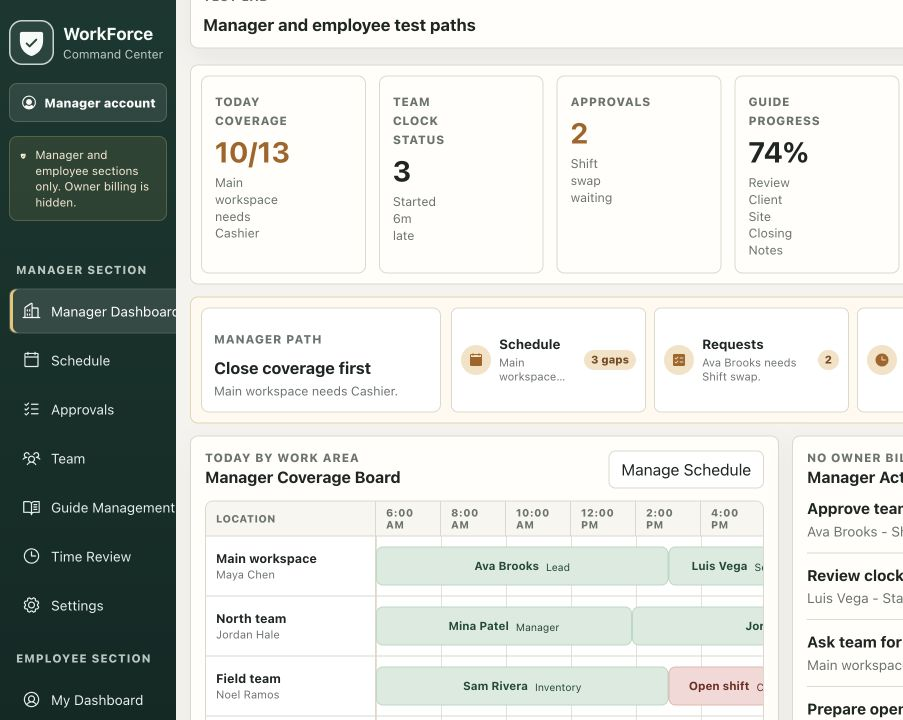
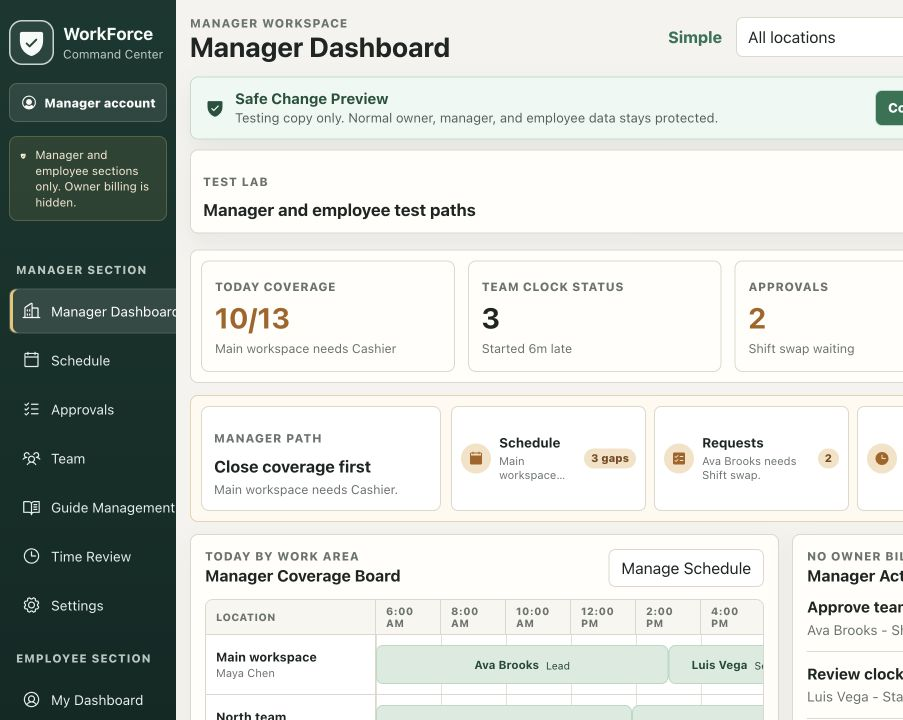
Fix dashboard metric readability

Changed region(s): [[0.2171, 0.1222, 1.0, 1.0], [0.186, 0.0, 0.5271, 0.0917], [0.7442, 0.0306, 1.0, 0.0917]]

diff --git a/src/WorkForceAppScreens.jsx b/src/WorkForceAppScreens.jsx
@@ -9212,6 +9212,7 @@ function homeActionTarget(target) {
 }
 
 function Metric({ label, value, detail, state, icon: Icon, onClick, actionTarget }) {
+  const metricClassName = `metric ${Icon ? "" : "no-icon"} ${state || ""}`.trim();
   const content = (
     <>
       {Icon && (
@@ -9228,13 +9229,13 @@ function Metric({ label, value, detail, state, icon: Icon, onClick, actionTarget
   );
   if (onClick) {
     return (
-      <button className={`metric metric-action ${state || ""}`} type="button" onClick={onClick} {...homeActionTarget(actionTarget)}>
+      <button className={`${metricClassName} metric-action`} type="button" onClick={onClick} {...homeActionTarget(actionTarget)}>
         {content}
       </button>
     );
   }
   return (
-    <article className={`metric ${state || ""}`}>
+    <article className={metricClassName}>
       {content}
     </article>
   );

diff --git a/src/WorkForceScreenDesign.css b/src/WorkForceScreenDesign.css
@@ -1526,7 +1526,7 @@ textarea {
 
 .kpi-strip {
   display: grid;
-  grid-template-columns: repeat(6, minmax(0, 1fr));
+  grid-template-columns: repeat(auto-fit, minmax(150px, 1fr));
   gap: 13px;
   padding: 10px;
   border: 1px solid var(--faint);
@@ -1545,6 +1545,10 @@ textarea {
   border-radius: 8px;
   background: var(--panel);
   box-shadow: none;
+}
+
+.metric.no-icon {
+  grid-template-columns: minmax(0, 1fr);
 }
 
 .metric-action {
@@ -10263,7 +10267,7 @@ textarea {
   }
 
   .kpi-strip {
-    grid-template-columns: repeat(3, minmax(0, 1fr));
+    grid-template-columns: repeat(auto-fit, minmax(150px, 1fr));
   }
 
   .standard-brief-grid {

diff --git a/AGENTS.md b/AGENTS.md
@@ -126,4 +126,6 @@ Architecture boundary rule: keep `npm run architecture-boundaries:smoke` passing
 
 Dashboard first-use clarity rule: do not add a separate tutorial page for normal owner, manager, or employee work. Reduce confusion by adding compact role-safe action paths near the top of home screens, using real workflow buttons and dated context. Manager paths must stay manager-safe; employee paths must stay employee-only.
 
+Dashboard metric readability rule: KPI and metric cards must keep text in a real content column. If a card has no icon, do not reserve an empty icon column; use a no-icon layout so labels, numbers, and details stay readable instead of squeezing into a tiny strip.
+
 Safe change performance rule: safe-preview changes must keep the app under the current performance budget. Run `npm run safe-change:check` after broad UI work; it includes build, route smoke tests, account role tests, command-service checks, and bundle-size budget checks so new experiments do not add avoidable lag.

diff --git a/BROWSER_QA_REPORT.md b/BROWSER_QA_REPORT.md
@@ -16,6 +16,7 @@ Passed:
 - Safe Preview stayed visible on preview routes.
 - Manager and employee dashboard action paths stayed contained, showed four role-safe workflow buttons, and did not create page-level horizontal overflow.
 - Manager and employee dashboard action labels stayed readable instead of being cut off inside tight cards.
+- Manager dashboard KPI cards stayed readable after the no-icon metric layout fix; the card text no longer collapses into a narrow icon column.
 
 Observed and accepted:
 
